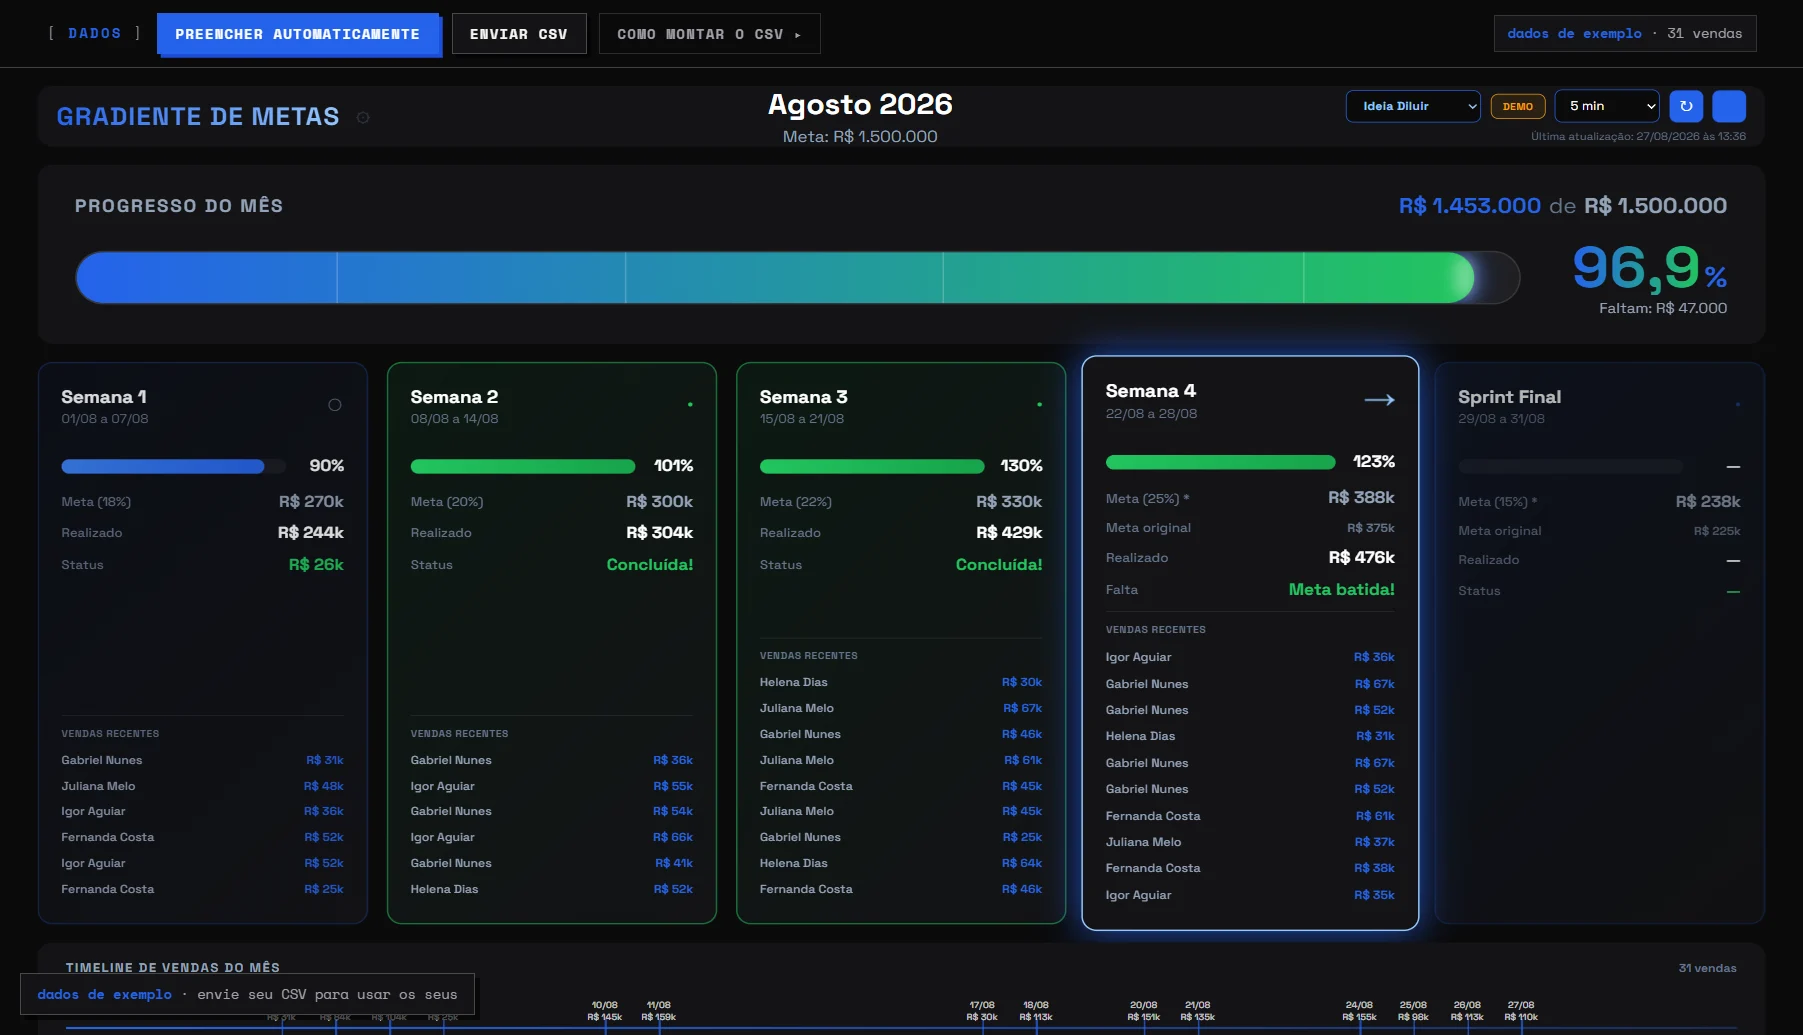
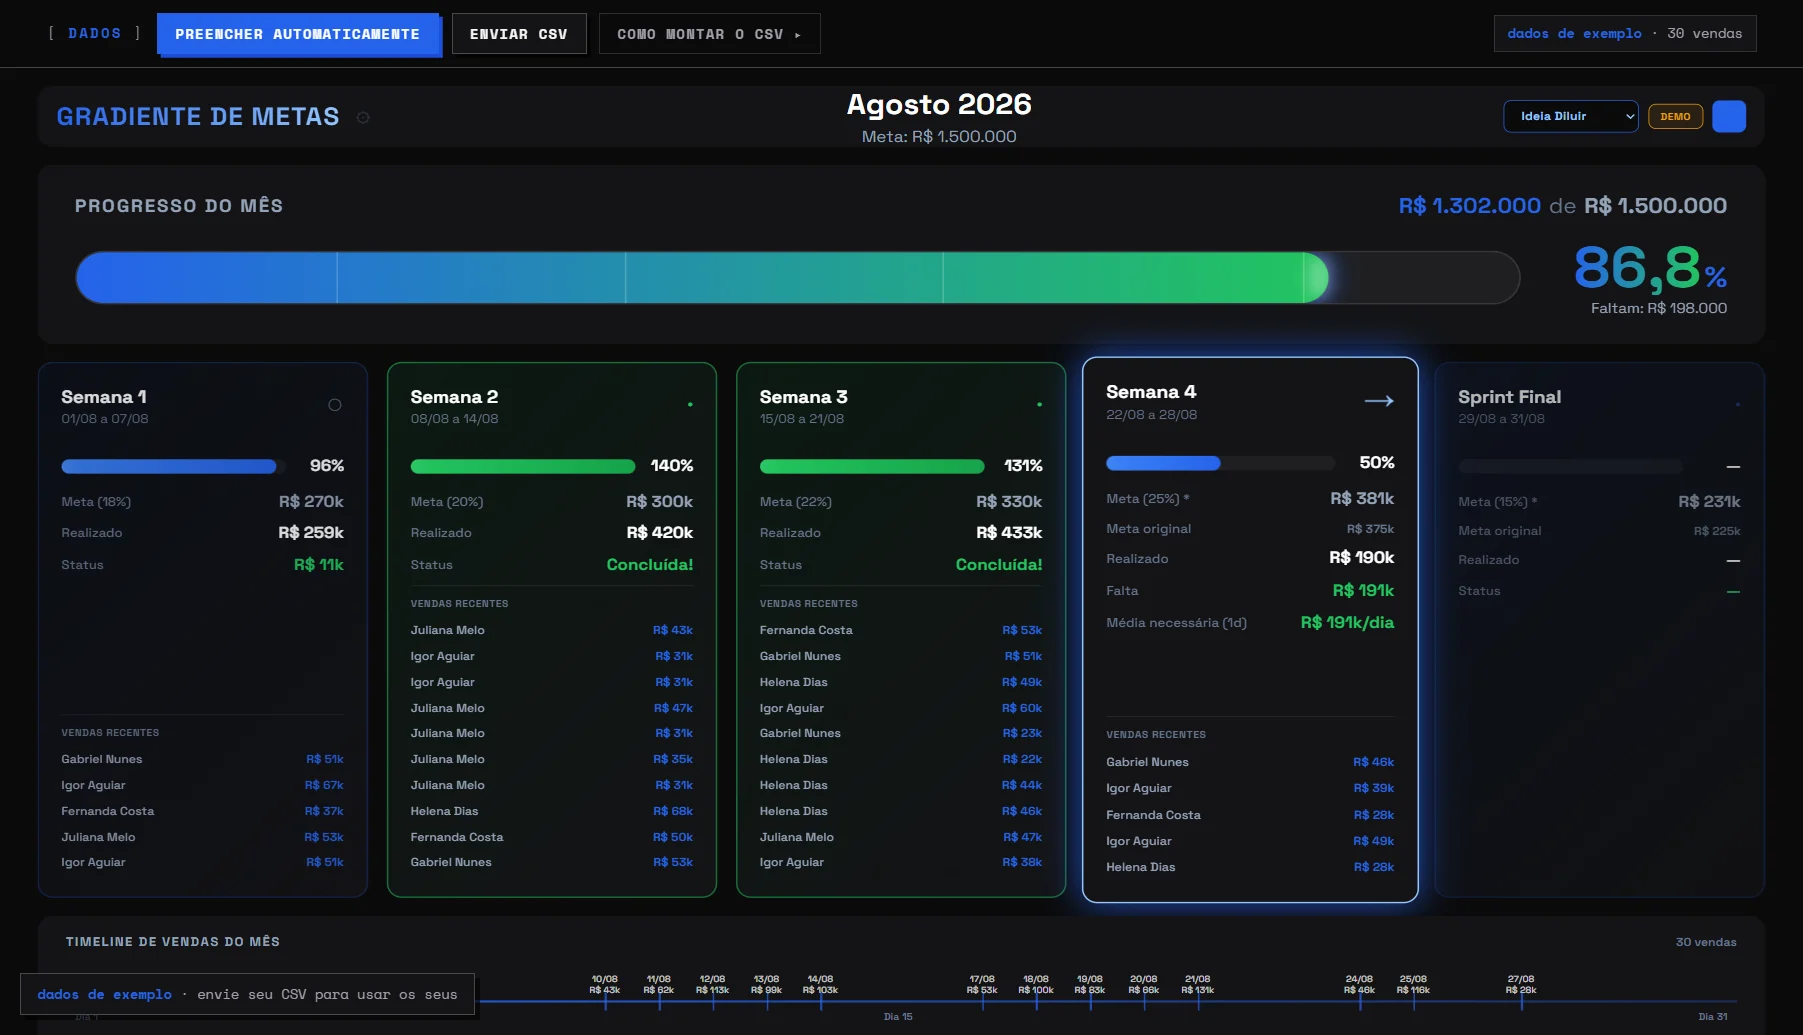
enterprise: faixa executiva no 01 (piloto do padrao) + remove auto-refresh do 08
- 01: faixa 'resumo executivo' no topo (o que responde + 4 KPIs-manchete +
  insight automatico computado do dado, ex. squad lider por conversao);
  identidade da marca; base do padrao a replicar nos 8
- 08: removido auto-refresh (select 1/5/10min + botao + 'ultima atualizacao'
  + timer JS) -- nao faz sentido em demo; fullscreen e estrategia mantidos

diff --git a/01_agendamentos.html b/01_agendamentos.html
@@ -140,6 +140,21 @@
   }
   .kpi .label{color:var(--muted);font-size:11px}
   .kpi .value{font-size:22px;font-weight:700;margin-top:4px}
+  /* faixa executiva (padrao enterprise) */
+  .exec-band{background:var(--panel);border:1px solid rgba(248,247,243,0.12);box-shadow:5px 5px 0 0 rgba(0,0,0,0.5);padding:22px 24px;margin-bottom:16px}
+  .exec-kicker{font-family:'Space Mono',monospace;font-size:11px;letter-spacing:.18em;text-transform:uppercase;color:var(--muted)}
+  .exec-kicker b{color:var(--accent);font-weight:700}
+  .exec-q{color:var(--text);font-size:17px;font-weight:500;margin:8px 0 18px;max-width:780px;line-height:1.4}
+  .exec-kpis{display:grid;grid-template-columns:repeat(4,1fr);gap:14px;margin-bottom:16px}
+  @media(max-width:720px){.exec-kpis{grid-template-columns:repeat(2,1fr)}}
+  .exec-kpi{background:var(--card);border:1px solid rgba(248,247,243,0.08);padding:14px 16px}
+  .exec-kpi .ev{font-size:30px;font-weight:700;color:var(--text);font-variant-numeric:tabular-nums;line-height:1}
+  .exec-kpi .ev.good{color:var(--ok)}
+  .exec-kpi .el{font-family:'Space Mono',monospace;font-size:11px;letter-spacing:.06em;text-transform:uppercase;color:var(--muted);margin-top:8px}
+  .exec-kpi .eh{color:var(--muted);font-size:12px;margin-top:3px;opacity:.8}
+  .exec-insight{border-left:3px solid var(--accent);padding-left:14px;color:var(--text);font-size:15px;line-height:1.55}
+  .exec-insight .ei-tag{font-family:'Space Mono',monospace;font-size:10px;letter-spacing:.1em;text-transform:uppercase;color:var(--accent);border:1px solid var(--accent);padding:1px 6px;margin-right:8px}
+  .exec-insight b{color:var(--text);font-weight:700}
   .btn, button{
     background:linear-gradient(180deg, var(--accent) 0%, var(--accent-2) 100%);
     border:none;color:white;padding:8px 12px;font-weight:600;border-radius:10px;
@@ -673,6 +688,13 @@ document.addEventListener('DOMContentLoaded', function() {
 
 <main class="wrap panel">
 
+  <section class="exec-band" id="exec-band">
+    <div class="exec-kicker"><b>//</b> resumo executivo</div>
+    <div class="exec-q">Onde o topo do funil ganha e perde, da origem ao agendamento: por squad, canal, closer e velocidade de atribuição.</div>
+    <div class="exec-kpis" id="exec-kpis"></div>
+    <div class="exec-insight" id="exec-insight"></div>
+  </section>
+
   <section class="card col-12" id="suggestionsBox" style="margin-bottom:16px;">
     <div style="display:flex;justify-content:space-between;align-items:start;">
       <div style="flex:1;">
@@ -1135,6 +1157,32 @@ function countTags(arr){const m={};for(const r of arr){for(const t of r.tagsAll)
 function ctab(rows,rowKey,colKey,rowOrder=null,colOrder=null){const rowsSet=rowOrder||Array.from(new Set(rows.map(r=>r[rowKey])));const colsSet=colOrder||Array.from(new Set(rows.map(r=>r[colKey])));const mat=rowsSet.map(()=>colsSet.map(()=>0));const rIndex=Object.fromEntries(rowsSet.map((v,i)=>[v,i]));const cIndex=Object.fromEntries(colsSet.map((v,i)=>[v,i]));for(const r of rows){const ri=rIndex[r[rowKey]];const ci=cIndex[r[colKey]];if(ri!=null&&ci!=null)mat[ri][ci]+=1;} return{rows:rowsSet,cols:colsSet,mat};}
 
 /* ---------- KPIs & Cards ---------- */
+function renderExec(data){
+  const total=data.length||1, pct=n=>Math.round(n/total*100);
+  const won=data.filter(d=>d.deal_status==='WON').length;
+  const fast=data.filter(d=>d.ta==='Até 1,5 dia'||d.ta==='Até 3 dias').length;
+  const corp=data.filter(d=>d.provider_class==='email_corporate').length;
+  const wonRate=won/total*100;
+  const bySquad={};
+  data.forEach(d=>{const s=d.origin_group_name||'—';(bySquad[s]=bySquad[s]||{n:0,w:0});bySquad[s].n++;if(d.deal_status==='WON')bySquad[s].w++;});
+  let topSquad=null,topRate=-1;
+  Object.entries(bySquad).forEach(([s,o])=>{if(o.n>=Math.max(5,total*0.05)){const r=o.w/o.n*100;if(r>topRate){topRate=r;topSquad=s;}}});
+  const kpis=[
+    {v:total.toLocaleString('pt-BR'),l:'Agendamentos',h:'no período'},
+    {v:pct(won)+'%',l:'Taxa de ganho',h:won+' fechados',good:wonRate>=30},
+    {v:pct(fast)+'%',l:'Rápidos (≤3 dias)',h:'lead → agendamento'},
+    {v:pct(corp)+'%',l:'E-mail corporativo',h:'leads mais quentes'}
+  ];
+  const kw=document.getElementById('exec-kpis');
+  if(kw) kw.innerHTML=kpis.map(k=>`<div class="exec-kpi"><div class="ev${k.good?' good':''}">${k.v}</div><div class="el">${k.l}</div><div class="eh">${k.h}</div></div>`).join('');
+  const iw=document.getElementById('exec-insight');
+  if(iw){
+    let msg;
+    if(topSquad&&topRate>wonRate+2) msg=`<b>${topSquad}</b> lidera a conversão com <b>${Math.round(topRate)}%</b> de ganho, ${Math.round(topRate-wonRate)} p.p. acima da média do período.`;
+    else msg=`<b>${pct(corp)}%</b> dos agendamentos vêm de e-mail corporativo, o segmento de melhor qualidade de lead.`;
+    iw.innerHTML=`<span class="ei-tag">insight</span>${msg}`;
+  }
+}
 function renderKPIs(data){const wrap=document.getElementById('kpis');wrap.innerHTML='';const total=data.length;const status=countBy(data,'deal_status');const free=data.filter(d=>d.provider_class==='email_free').length;const corp=data.filter(d=>d.provider_class==='email_corporate').length;const fast=data.filter(d=>d.ta==='Até 1,5 dia'||d.ta==='Até 3 dias').length;const kpis=[{label:'Agendamentos (seleção)',value:total},{label:'OPEN',value:status['OPEN']||0},{label:'WON',value:status['WON']||0},{label:'LOST',value:status['LOST']||0},{label:'E-mail corporativo',value:corp},{label:'E-mail gratuito',value:free},{label:'TA ≤ 3 dias',value:`${(fast/Math.max(1,total)*100).toFixed(1)}%`},];for(const k of kpis){const el=document.createElement('div');el.className='kpi';el.innerHTML=`<div class="label">${k.label}</div><div class="value">${k.value}</div>`;wrap.appendChild(el);}}
 
 /* ---------- LÓGICA DE FILTROS CRUZADOS ---------- */
@@ -1813,6 +1861,7 @@ function buildAll(data){
   const status = countBy(data,'deal_status');
   const statusPairs = STATUS_ORDER.map(s => [s, status[s] || 0]);
   chartDataStore.kpi = {total, status: status, ...countBy(data,'provider_class'), '% TA <= 3 dias': (data.filter(d=>d.ta==='Até 1,5 dia'||d.ta==='Até 3 dias').length/Math.max(1,total)*100).toFixed(1)};
+  renderExec(data);
   renderKPIs(data);
   renderPie('chartStatusDonut', statusPairs, 'Status Geral', total, 'status');
   

diff --git a/08_gradiente_metas.html b/08_gradiente_metas.html
@@ -257,16 +257,8 @@ html,body { width:100%; height:100%; overflow:hidden; background:var(--bg); font
           <div id="data-source-indicator" class="data-source-badge demo-mode" title="Modo demo – dados fictícios">
             <span id="data-source-text" class="badge-text">Demo</span>
           </div>
-          <select id="autoRefreshSelect" class="refresh-select">
-            <option value="60000">1 min</option>
-            <option value="300000" selected>5 min</option>
-            <option value="600000">10 min</option>
-            <option value="0">Desligado</option>
-          </select>
-          <button id="refresh-btn" class="refresh-btn" title="Atualizar dados">↻</button>
           <button id="fullscreen-btn" class="fullscreen-btn" title="Tela cheia"></button>
         </div>
-        <div id="last-update" class="last-update">Última atualização: --</div>
       </div>
     </header>
 
@@ -346,7 +338,6 @@ html,body { width:100%; height:100%; overflow:hidden; background:var(--bg); font
 // Dashboard gamificado para TV (1920×1080)
 // ============================================================================
 
-let autoRefreshTimer = null;
 let gradienteData = null;
 
 // ============================================================================
@@ -387,22 +378,7 @@ window.addEventListener('load', scaleToFit);
 // AUTO-REFRESH
 // ============================================================================
 
-function setupAutoRefresh() {
-  const select = document.getElementById('autoRefreshSelect');
-  const savedInterval = localStorage.getItem('gradienteAutoRefresh') || '300000';
-  select.value = savedInterval;
-  scheduleAutoRefresh(parseInt(savedInterval));
-  select.addEventListener('change', function() {
-    const interval = parseInt(this.value);
-    localStorage.setItem('gradienteAutoRefresh', interval);
-    scheduleAutoRefresh(interval);
-  });
-}
-
-function scheduleAutoRefresh(interval) {
-  if (autoRefreshTimer) { clearTimeout(autoRefreshTimer); autoRefreshTimer = null; }
-  if (interval > 0) autoRefreshTimer = setTimeout(() => loadData(), interval);
-}
+// auto-refresh removido (nao faz sentido em demo/portfolio)
 
 // ============================================================================
 // STRATEGY SELECTOR
@@ -626,9 +602,6 @@ function onDataLoaded(data) {
   updateProgressBar(data.mesAtual);
   updateWeekCards(data.mesAtual.semanas);
   updateTimeline(data.mesAtual.todasVendas);
-  updateLastUpdate(data.ultimaAtualizacao);
-  const select = document.getElementById('autoRefreshSelect');
-  scheduleAutoRefresh(parseInt(select.value));
 }
 
 function onDataError(error) {
@@ -826,9 +799,6 @@ function updateTimeline(todasVendas) {
   });
 }
 
-function updateLastUpdate(timestamp) {
-  document.getElementById('last-update').textContent = 'Última atualização: ' + timestamp;
-}
 
 // ============================================================================
 // EVENT LISTENERS
@@ -836,9 +806,7 @@ function updateLastUpdate(timestamp) {
 
 document.addEventListener('DOMContentLoaded', function() {
   scaleToFit();
-  setupAutoRefresh();
   setupStrategySelector();
-  document.getElementById('refresh-btn').addEventListener('click', loadData);
   document.getElementById('fullscreen-btn').addEventListener('click', toggleFullscreen);
   document.addEventListener('keydown', function(e) {
     if ((e.key === 'f' || e.key === 'F') && e.target.tagName !== 'INPUT' && e.target.tagName !== 'SELECT') {
